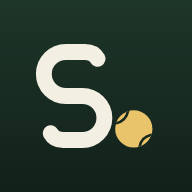
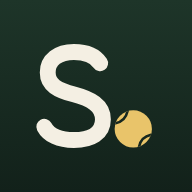
A smoother S: classic curves instead of the R's flat runs
Sam: the S "looks wonky and weird". It was built from the R's own parts —
two stadium bowls joined by a flat top, a flat horizontal spine and a flat
foot — which is right for an R's bowl and wrong for an S: straight runs make
it blocky, halfway to a 5, with terminals that hook back like a paperclip.

Now a classic monoline S in cubic curves: round bowls, a spine that runs
diagonally down to the right, the lower bowl a touch wider than the upper as
type does it, and terminals that open out. Same 92 stroke, round caps,
colours, ball and scale as before, so it is still the same family as the R
it replaced. Three versions were drawn and compared side by side at 300,
64 and 32px before choosing; the favicon, both maskables, every PNG and the
in-app header mark carry the same path, re-rendered and checked on screen.

Claude-Session: https://claude.ai/code/session_017cJUU5ME864B4ob9pW1pLX

diff --git a/src/components/ui/RallyMark.tsx b/src/components/ui/RallyMark.tsx
@@ -39,8 +39,8 @@ export function RallyMark({ size = 22, title }: { size?: number; title?: string 
   return (
     <svg
       width={size}
-      height={size * (602 / 676)}
-      viewBox="250 211 676 602"
+      height={size * (602 / 670)}
+      viewBox="256 211 670 602"
       role={title ? "img" : "presentation"}
       aria-label={title}
       aria-hidden={title ? undefined : true}
@@ -53,7 +53,7 @@ export function RallyMark({ size = 22, title }: { size?: number; title?: string 
         strokeLinecap="round"
         strokeLinejoin="round"
       >
-        <path d="M608 296Q586 257 536 257H424A127.5 127.5 0 0 0 424 512H520A127.5 127.5 0 0 1 520 767H408Q358 767 336 728" />
+        <path d="M626 322C598 280 545 257 474 257C382 257 322 304 322 376C322 448 380 478 474 503C572 529 642 566 642 648C642 728 574 767 474 767C386 767 326 736 302 690" />
       </g>
       <circle cx={818} cy={703} r={108} fill="var(--mark-ball)" />
     </svg>

diff --git a/scripts/build-icons.md b/scripts/build-icons.md
@@ -1,7 +1,8 @@
 # Rebuilding the app icons
 
 **2026-09-27: the letter is an S now.** The app became Southwood and the R
-was redrawn as an S in the same stroke, with the ball moved to (818, 703).
+was redrawn as an S — a smooth monoline S in the same 92 stroke, with the
+ball moved to (818, 703).
 Where this file says "the R" or "the letter", read the S — the rules are the
 same. That rebuild was rasterised with Playwright's Chromium in a cloud
 session (`/tmp/.../raster.mjs`: open each master as an <img> at the target
